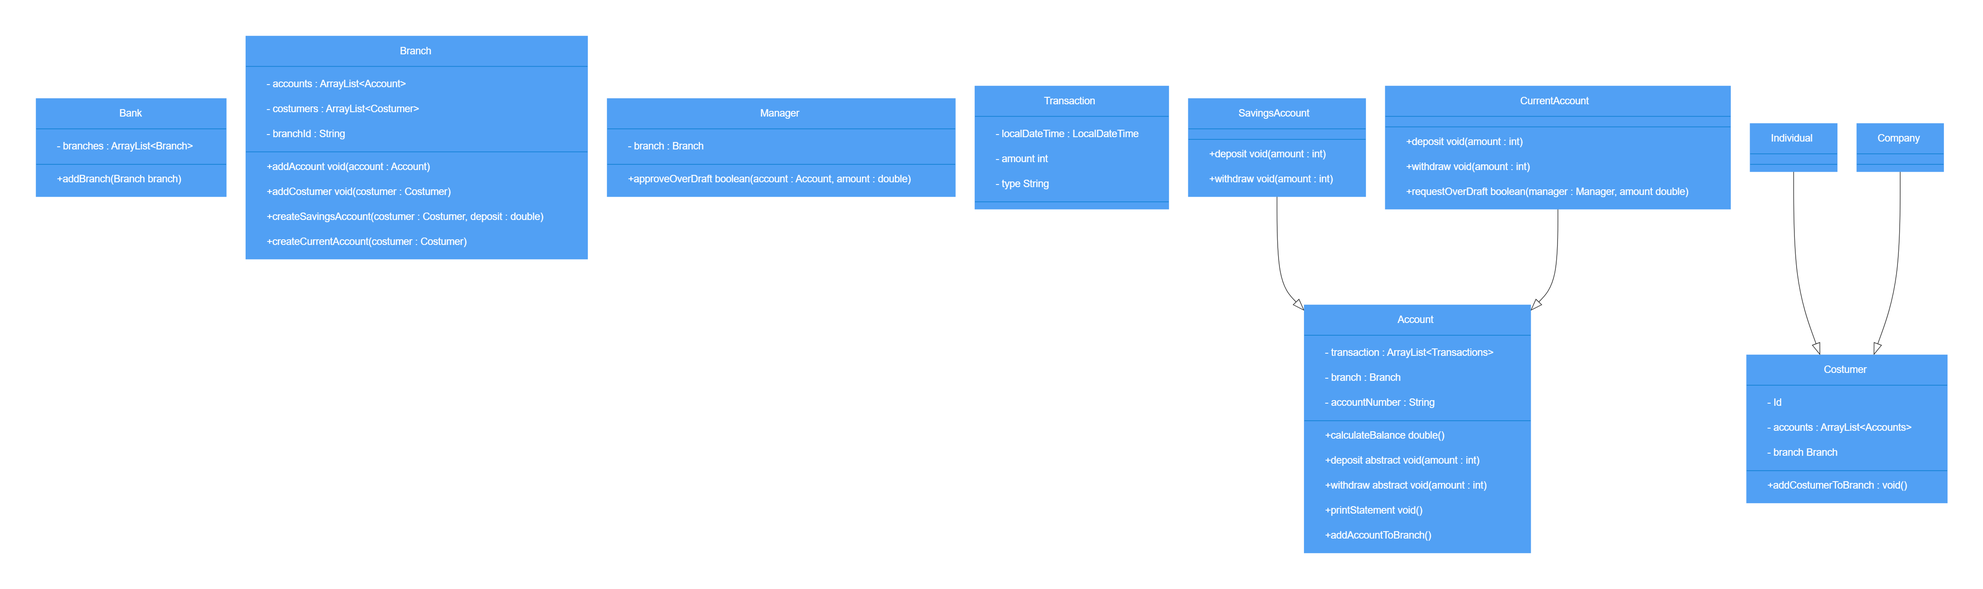
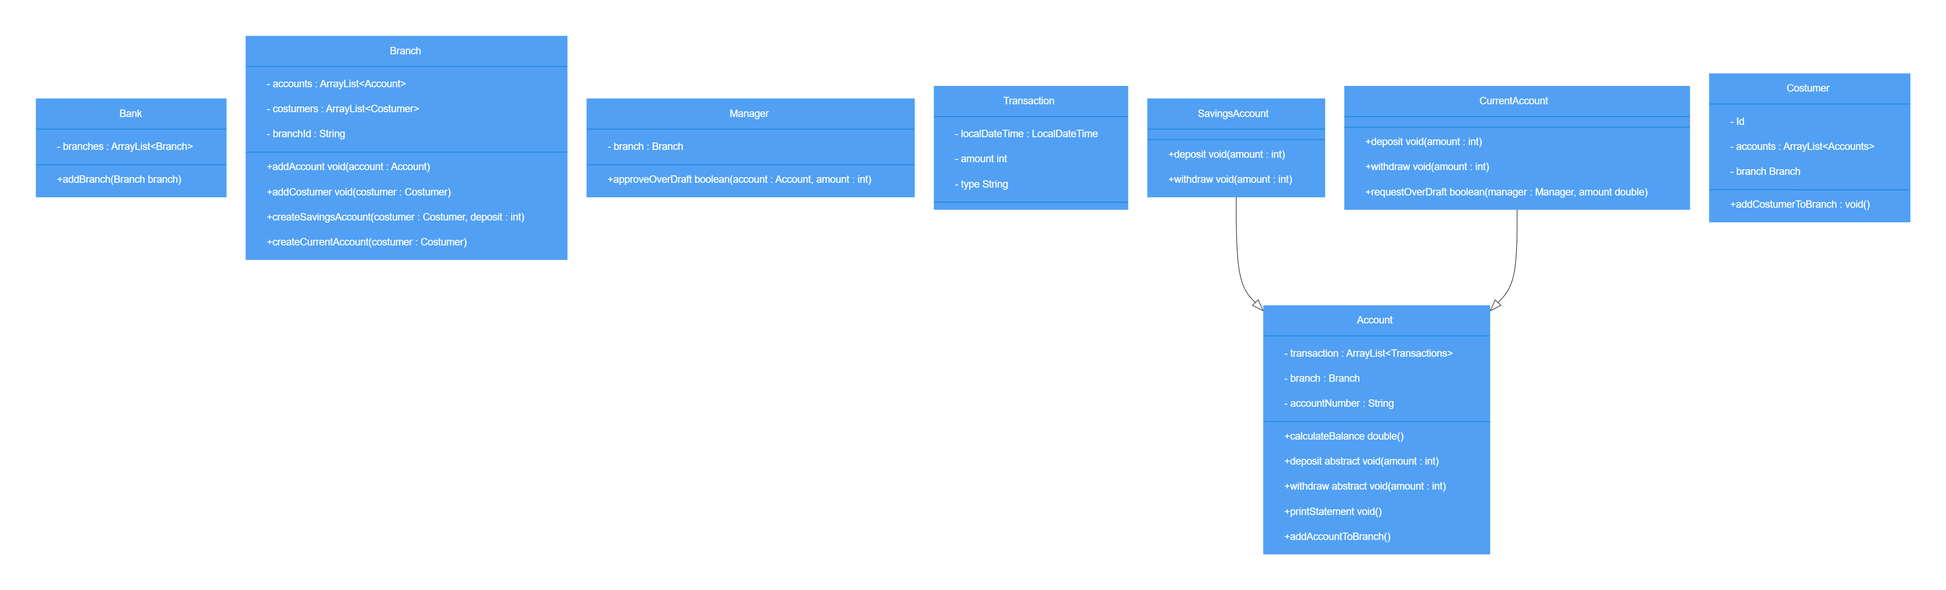
Removed unused methods

diff --git a/src/main/java/com/booleanuk/core/Transaction.java b/src/main/java/com/booleanuk/core/Transaction.java
@@ -14,7 +14,6 @@ public class Transaction {
         this.date = localDateTime;
         this.amount = amount;
         this.isCredit = isCredit;
-        this.balance = balance;
 
     }
 
@@ -26,9 +25,6 @@ public class Transaction {
         return isCredit;
     }
 
-    public LocalDateTime getDate() {
-        return date;
-    }
 
     public double getAmount() {
         return amount;

diff --git a/src/main/java/com/booleanuk/core/Costumer.java b/src/main/java/com/booleanuk/core/Costumer.java
@@ -15,9 +15,6 @@ public class Costumer {
        accounts.add(account);
     }
 
-    public String getCostumerId() {
-        return costumerId;
-    }
 
     public ArrayList<Account> getAccountsForCostumer() {
         return accounts;

diff --git a/src/main/java/com/booleanuk/core/Bank.java b/src/main/java/com/booleanuk/core/Bank.java
@@ -12,6 +12,7 @@ public class Bank {
     public int getSizeOfBranch () {
         return branches.size();
     }
+
     public ArrayList<Branch> getBranch() {
         return this.branches;
     }

diff --git a/domain-model.md b/domain-model.md
@@ -1,56 +1,49 @@
-| Classes                  | Variables                             | Methods                                                           | Scenarios                                                                                                   | Outcomes                                                                                              |
-|--------------------------|---------------------------------------|-------------------------------------------------------------------|-------------------------------------------------------------------------------------------------------------|-------------------------------------------------------------------------------------------------------|
-| `Bank`                   | `ArrayList<Branch> branches`          | `Branch getBranch(Branch branch)`                                 |                                                                                                             |                                                                                                       |
-|                          |                                       | `void addBranch(Branch branch)`                                   |                                                                                                             |                                                                                                       |
-|                          |                                       |                                                                   |                                                                                                             |                                                                                                       |
-|                          |                                       |                                                                   |                                                                                                             |                                                                                                       |
-| `Branch`                 | `ArrayList<Account> accounts`         | `void addAccount(Account account)`                                | I want accounts to be associated with specific branches                                                     | Will add the account to a specific branch in the bank                                                 |
-|                          | `ArrayList<Customer> costumers`       | `void addCostumer(Costumer costumer)`                             |                                                                                                             |                                                                                                       |
-|                          | `String branchId`                     | `Account getAccount()`                                            |                                                                                                             |                                                                                                       |
-|                          |                                       | `Costumer getCostumer()`                                          |                                                                                                             |                                                                                                       |
-|                          |                                       | `Account createSavingsAccount(Costumer costumer, double deposit)` | I want to create a savings account.                                                                         | Returns the account created                                                                           |
-|                          |                                       | `Account createCurrentAccount(Costumer costumer)`                 | I want to create a current account.                                                                         |                                                                                                       |
-|                          |                                       |                                                                   |                                                                                                             |                                                                                                       |
-|                          |                                       |                                                                   |                                                                                                             |                                                                                                       |
-|                          |                                       |                                                                   |                                                                                                             |                                                                                                       |
-|                          |                                       |                                                                   |                                                                                                             |                                                                                                       |
-| `Manager`                | `Branch branch`                       | `boolean approveOverdraft(Account account, double amount)`        | I want to approve or reject overdraft requests.                                                             | Will approve or reject the overdraft                                                                  |
-|                          |                                       |                                                                   |                                                                                                             |                                                                                                       |
-|                          |                                       |                                                                   |                                                                                                             |                                                                                                       |
-|                          |                                       |                                                                   |                                                                                                             |                                                                                                       |
-|                          |                                       |                                                                   |                                                                                                             |                                                                                                       |
-|                          |                                       |                                                                   |                                                                                                             |                                                                                                       |
-| `Transaction`            | `LocalDateTime localDateTime`         |                                                                   |                                                                                                             |                                                                                                       |
-|                          | `int amount`                          |                                                                   |                                                                                                             |                                                                                                       |
-|                          | `String type`                         |                                                                   |                                                                                                             |                                                                                                       |
-|                          |                                       |                                                                   |                                                                                                             |                                                                                                       |
-|                          |                                       |                                                                   |                                                                                                             |                                                                                                       |
-|                          |                                       |                                                                   |                                                                                                             |                                                                                                       |
-| `Account`                | `Branch branch`                       | `double calculateBalance()`                                       | I want account balances to be calculated based on transaction history instead of stored in memory.          | Will return the balance                                                                               |
-|                          | `String accountNumber`                | `void deposit(int amount)`                                        | I want to deposit funds.                                                                                    |                                                                                                       |
-|                          | `ArrayList<Transaction> transactions` | `void withdraw(int amount)`                                       | I want to withdraw funds.                                                                                   |                                                                                                       |
-|                          |                                       | `void printStatement()`                                           | I want to generate bank statements with transaction dates, amounts, and balance at the time of transaction. | Returns a print statement regarding the withdraw, deposit, balance etc                                |
-|                          |                                       | `void addAccountToBranch()`                                       | I want accounts to be associated with specific branches.                                                    |                                                                                                       |
-|                          |                                       |                                                                   |                                                                                                             |                                                                                                       |
-|                          |                                       |                                                                   |                                                                                                             |                                                                                                       |
-| `SavingsAccount`         |                                       | `void withdraw(int amount)`                                       |                                                                                                             |                                                                                                       |
-| `inherits from Account`  |                                       | `void deposit(int amount)`                                        |                                                                                                             | Will return a false or true if it got approved by manager                                             |
-|                          |                                       |                                                                   |                                                                                                             |                                                                                                       |
-|                          |                                       |                                                                   |                                                                                                             |                                                                                                       |
-|                          |                                       |                                                                   |                                                                                                             |                                                                                                       |
-| `CurrentAccount`         | `double limit`                        | `boolean requestOverDraft(Manager manager, double amount)`        | I want to be able to request an overdraft on my account.                                                    | will return the request to the manager function which will return true or false depending if accepted |
-| `inherits from Account`  |                                       | `void withdraw(int amount)`                                       |                                                                                                             |                                                                                                       |
-|                          |                                       | `void deposit(int amount)`                                        |                                                                                                             |                                                                                                       |
-|                          |                                       |                                                                   |                                                                                                             |                                                                                                       |
-|                          |                                       |                                                                   |                                                                                                             |                                                                                                       |
-| `Costumer`               | `String costumerId`                   | `void addCostumerToBranch()`                                      |                                                                                                             |                                                                                                       |
-|                          | `ArrayList<Account> accounts`         |                                                                   |                                                                                                             |                                                                                                       |
-|                          | `Branch branch`                       |                                                                   |                                                                                                             |                                                                                                       |
-|                          |                                       |                                                                   |                                                                                                             |                                                                                                       |
-| `Individual`             |                                       |                                                                   |                                                                                                             |                                                                                                       |
-| `inherits from cosutmer` |                                       |                                                                   |                                                                                                             |                                                                                                       |
-|                          |                                       |                                                                   |                                                                                                             |                                                                                                       |
-|                          |                                       |                                                                   |                                                                                                             |                                                                                                       |
-| `Company`                |                                       |                                                                   |                                                                                                             |                                                                                                       |
-| `inherits from costumer` |                                       |                                                                   |                                                                                                             |                                                                                                       |
-|                          |                                       |                                                                   |                                                                                                             |                                                                                                       |
+| Classes                 | Variables                             | Methods                                                           | Scenarios                                                                                                   | Outcomes                                                                                              |
+|-------------------------|---------------------------------------|-------------------------------------------------------------------|-------------------------------------------------------------------------------------------------------------|-------------------------------------------------------------------------------------------------------|
+| `Bank`                  | `ArrayList<Branch> branches`          | `Branch getBranch(Branch branch)`                                 |                                                                                                             |                                                                                                       |
+|                         |                                       | `void addBranch(Branch branch)`                                   |                                                                                                             |                                                                                                       |
+|                         |                                       |                                                                   |                                                                                                             |                                                                                                       |
+|                         |                                       |                                                                   |                                                                                                             |                                                                                                       |
+| `Branch`                | `ArrayList<Account> accounts`         | `void addAccount(Account account)`                                | I want accounts to be associated with specific branches                                                     | Will add the account to a specific branch in the bank                                                 |
+|                         | `ArrayList<Customer> costumers`       | `void addCostumer(Costumer costumer)`                             |                                                                                                             |                                                                                                       |
+|                         | `String branchId`                     | `Account getAccount()`                                            |                                                                                                             |                                                                                                       |
+|                         |                                       | `Costumer getCostumer()`                                          |                                                                                                             |                                                                                                       |
+|                         |                                       | `Account createSavingsAccount(Costumer costumer, double deposit)` | I want to create a savings account.                                                                         | Returns the account created                                                                           |
+|                         |                                       | `Account createCurrentAccount(Costumer costumer)`                 | I want to create a current account.                                                                         |                                                                                                       |
+|                         |                                       |                                                                   |                                                                                                             |                                                                                                       |
+|                         |                                       |                                                                   |                                                                                                             |                                                                                                       |
+|                         |                                       |                                                                   |                                                                                                             |                                                                                                       |
+|                         |                                       |                                                                   |                                                                                                             |                                                                                                       |
+| `Manager`               | `Branch branch`                       | `boolean approveOverdraft(Account account, int amount)`           | I want to approve or reject overdraft requests.                                                             | Will approve or reject the overdraft                                                                  |
+|                         |                                       |                                                                   |                                                                                                             |                                                                                                       |
+|                         |                                       |                                                                   |                                                                                                             |                                                                                                       |
+|                         |                                       |                                                                   |                                                                                                             |                                                                                                       |
+|                         |                                       |                                                                   |                                                                                                             |                                                                                                       |
+|                         |                                       |                                                                   |                                                                                                             |                                                                                                       |
+| `Transaction`           | `LocalDateTime localDateTime`         |                                                                   |                                                                                                             |                                                                                                       |
+|                         | `int amount`                          |                                                                   |                                                                                                             |                                                                                                       |
+|                         | `String type`                         |                                                                   |                                                                                                             |                                                                                                       |
+|                         |                                       |                                                                   |                                                                                                             |                                                                                                       |
+|                         |                                       |                                                                   |                                                                                                             |                                                                                                       |
+|                         |                                       |                                                                   |                                                                                                             |                                                                                                       |
+| `Account`               | `Branch branch`                       | `double calculateBalance()`                                       | I want account balances to be calculated based on transaction history instead of stored in memory.          | Will return the balance                                                                               |
+|                         | `String accountNumber`                | `void deposit(int amount)`                                        | I want to deposit funds.                                                                                    |                                                                                                       |
+|                         | `ArrayList<Transaction> transactions` | `void withdraw(int amount)`                                       | I want to withdraw funds.                                                                                   |                                                                                                       |
+|                         |                                       | `void printStatement()`                                           | I want to generate bank statements with transaction dates, amounts, and balance at the time of transaction. | Returns a print statement regarding the withdraw, deposit, balance etc                                |
+|                         |                                       | `void addAccountToBranch()`                                       | I want accounts to be associated with specific branches.                                                    |                                                                                                       |
+|                         |                                       |                                                                   |                                                                                                             |                                                                                                       |
+|                         |                                       |                                                                   |                                                                                                             |                                                                                                       |
+| `SavingsAccount`        |                                       | `void withdraw(int amount)`                                       |                                                                                                             |                                                                                                       |
+| `inherits from Account` |                                       | `void deposit(int amount)`                                        |                                                                                                             | Will return a false or true if it got approved by manager                                             |
+|                         |                                       |                                                                   |                                                                                                             |                                                                                                       |
+|                         |                                       |                                                                   |                                                                                                             |                                                                                                       |
+|                         |                                       |                                                                   |                                                                                                             |                                                                                                       |
+| `CurrentAccount`        |                                       | `boolean requestOverDraft(Manager manager, int amount)`           | I want to be able to request an overdraft on my account.                                                    | will return the request to the manager function which will return true or false depending if accepted |
+| `inherits from Account` |                                       | `void withdraw(int amount)`                                       |                                                                                                             |                                                                                                       |
+|                         |                                       | `void deposit(int amount)`                                        |                                                                                                             |                                                                                                       |
+|                         |                                       |                                                                   |                                                                                                             |                                                                                                       |
+|                         |                                       |                                                                   |                                                                                                             |                                                                                                       |
+| `Costumer`              | `String costumerId`                   | `void addCostumerToBranch()`                                      |                                                                                                             |                                                                                                       |
+|                         | `ArrayList<Account> accounts`         |                                                                   |                                                                                                             |                                                                                                       |
+|                         | `Branch branch`                       |                                                                   |                                                                                                             |                                                                                                       |
+|                         |                                       |                                                                   |                                                                                                             |                                                                                                       |
